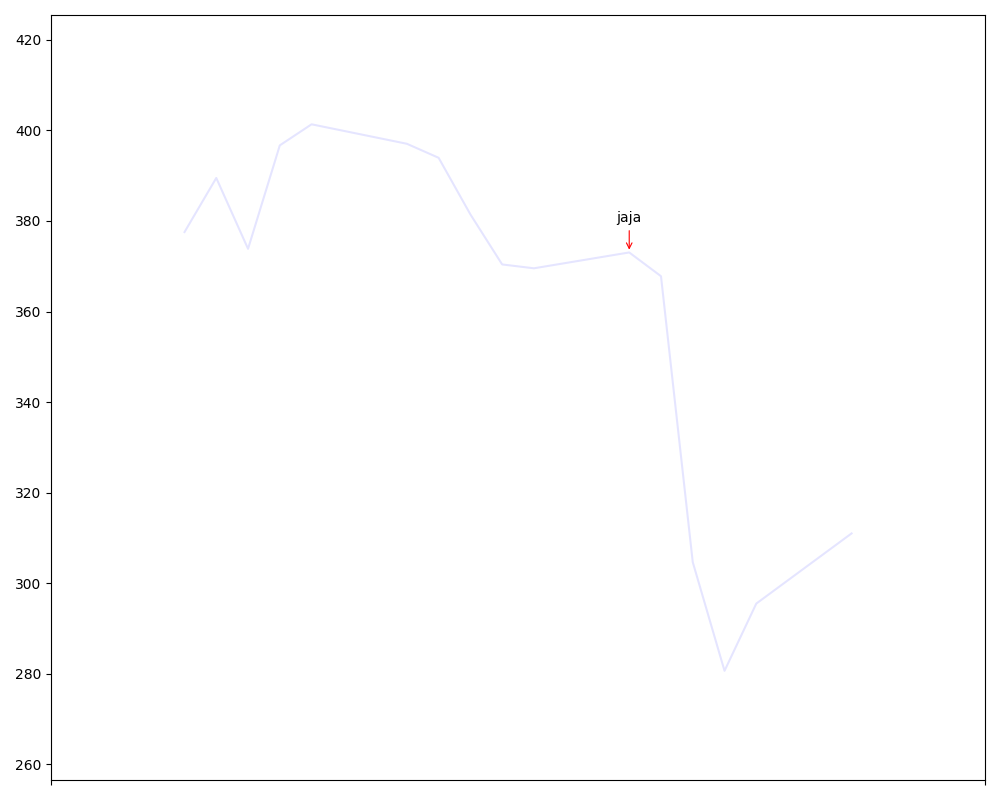
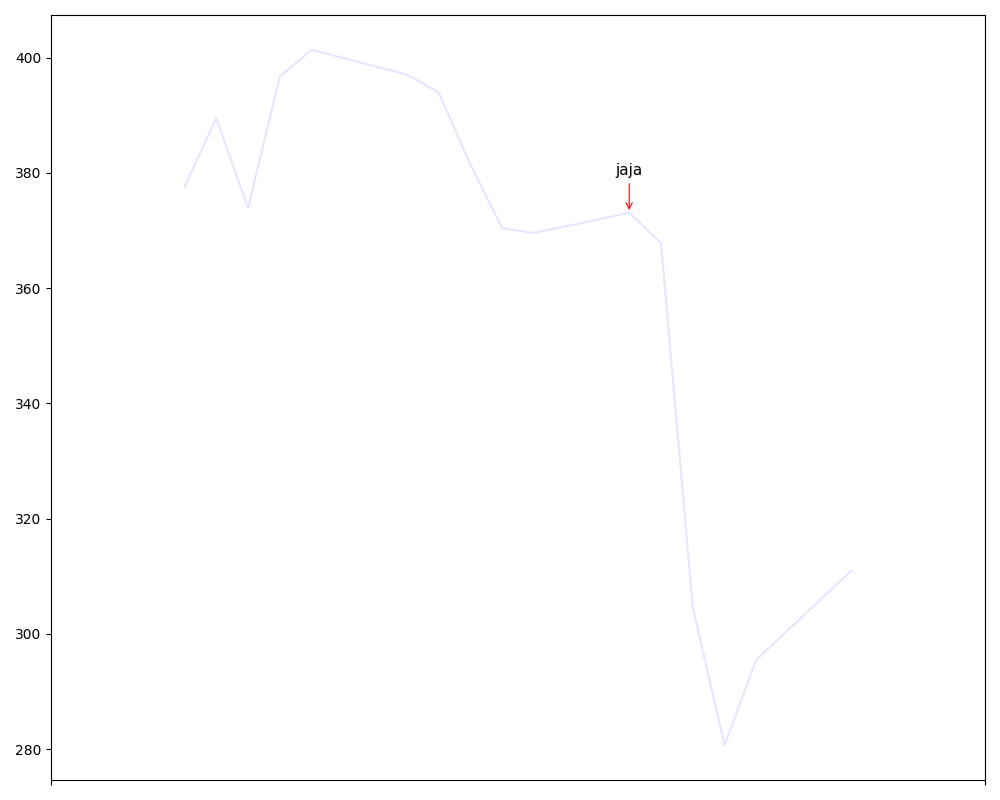
dumpdata har ikke været korrekt. outputtet har ikke været korrekt utf-8 (den har ikke kunne anvendt æ,ø,å - uagtet at jeg save as utf-8.

diff --git a/stocks/templates/stocks/base_url.html b/stocks/templates/stocks/base_url.html
@@ -49,7 +49,7 @@
     border: 1px solid #ccc; 
     border-radius: 8px; 
     padding: 10px; 
-    max-width: 800px; 
+    max-width: 1000px; 
     margin: 0 auto;
     gap: 20px;
 ">

diff --git a/stocks/databehandling.py b/stocks/databehandling.py
@@ -31,7 +31,7 @@ def get_plot(x,y, annoteringer, filename):
     plt.figure(figsize=(10,8))
     plt.plot(x,y, color='blue', alpha=0.10)
     plt.margins(x=0.2)
-    plt.margins(y=0.2)
+    plt.margins(y=0.05)
 
     x_list = list(x) ## konverterer x (datoer fra kursgrafen) og y (aktieprisen).
     y_list = list(y)
@@ -71,7 +71,7 @@ def get_plot(x,y, annoteringer, filename):
             xytext=(x_val, y_offset),
             ha='center',
             va='bottom',
-            fontsize=10,
+            fontsize=11,
             arrowprops=dict(
                 arrowstyle='->',
                 color='red',
